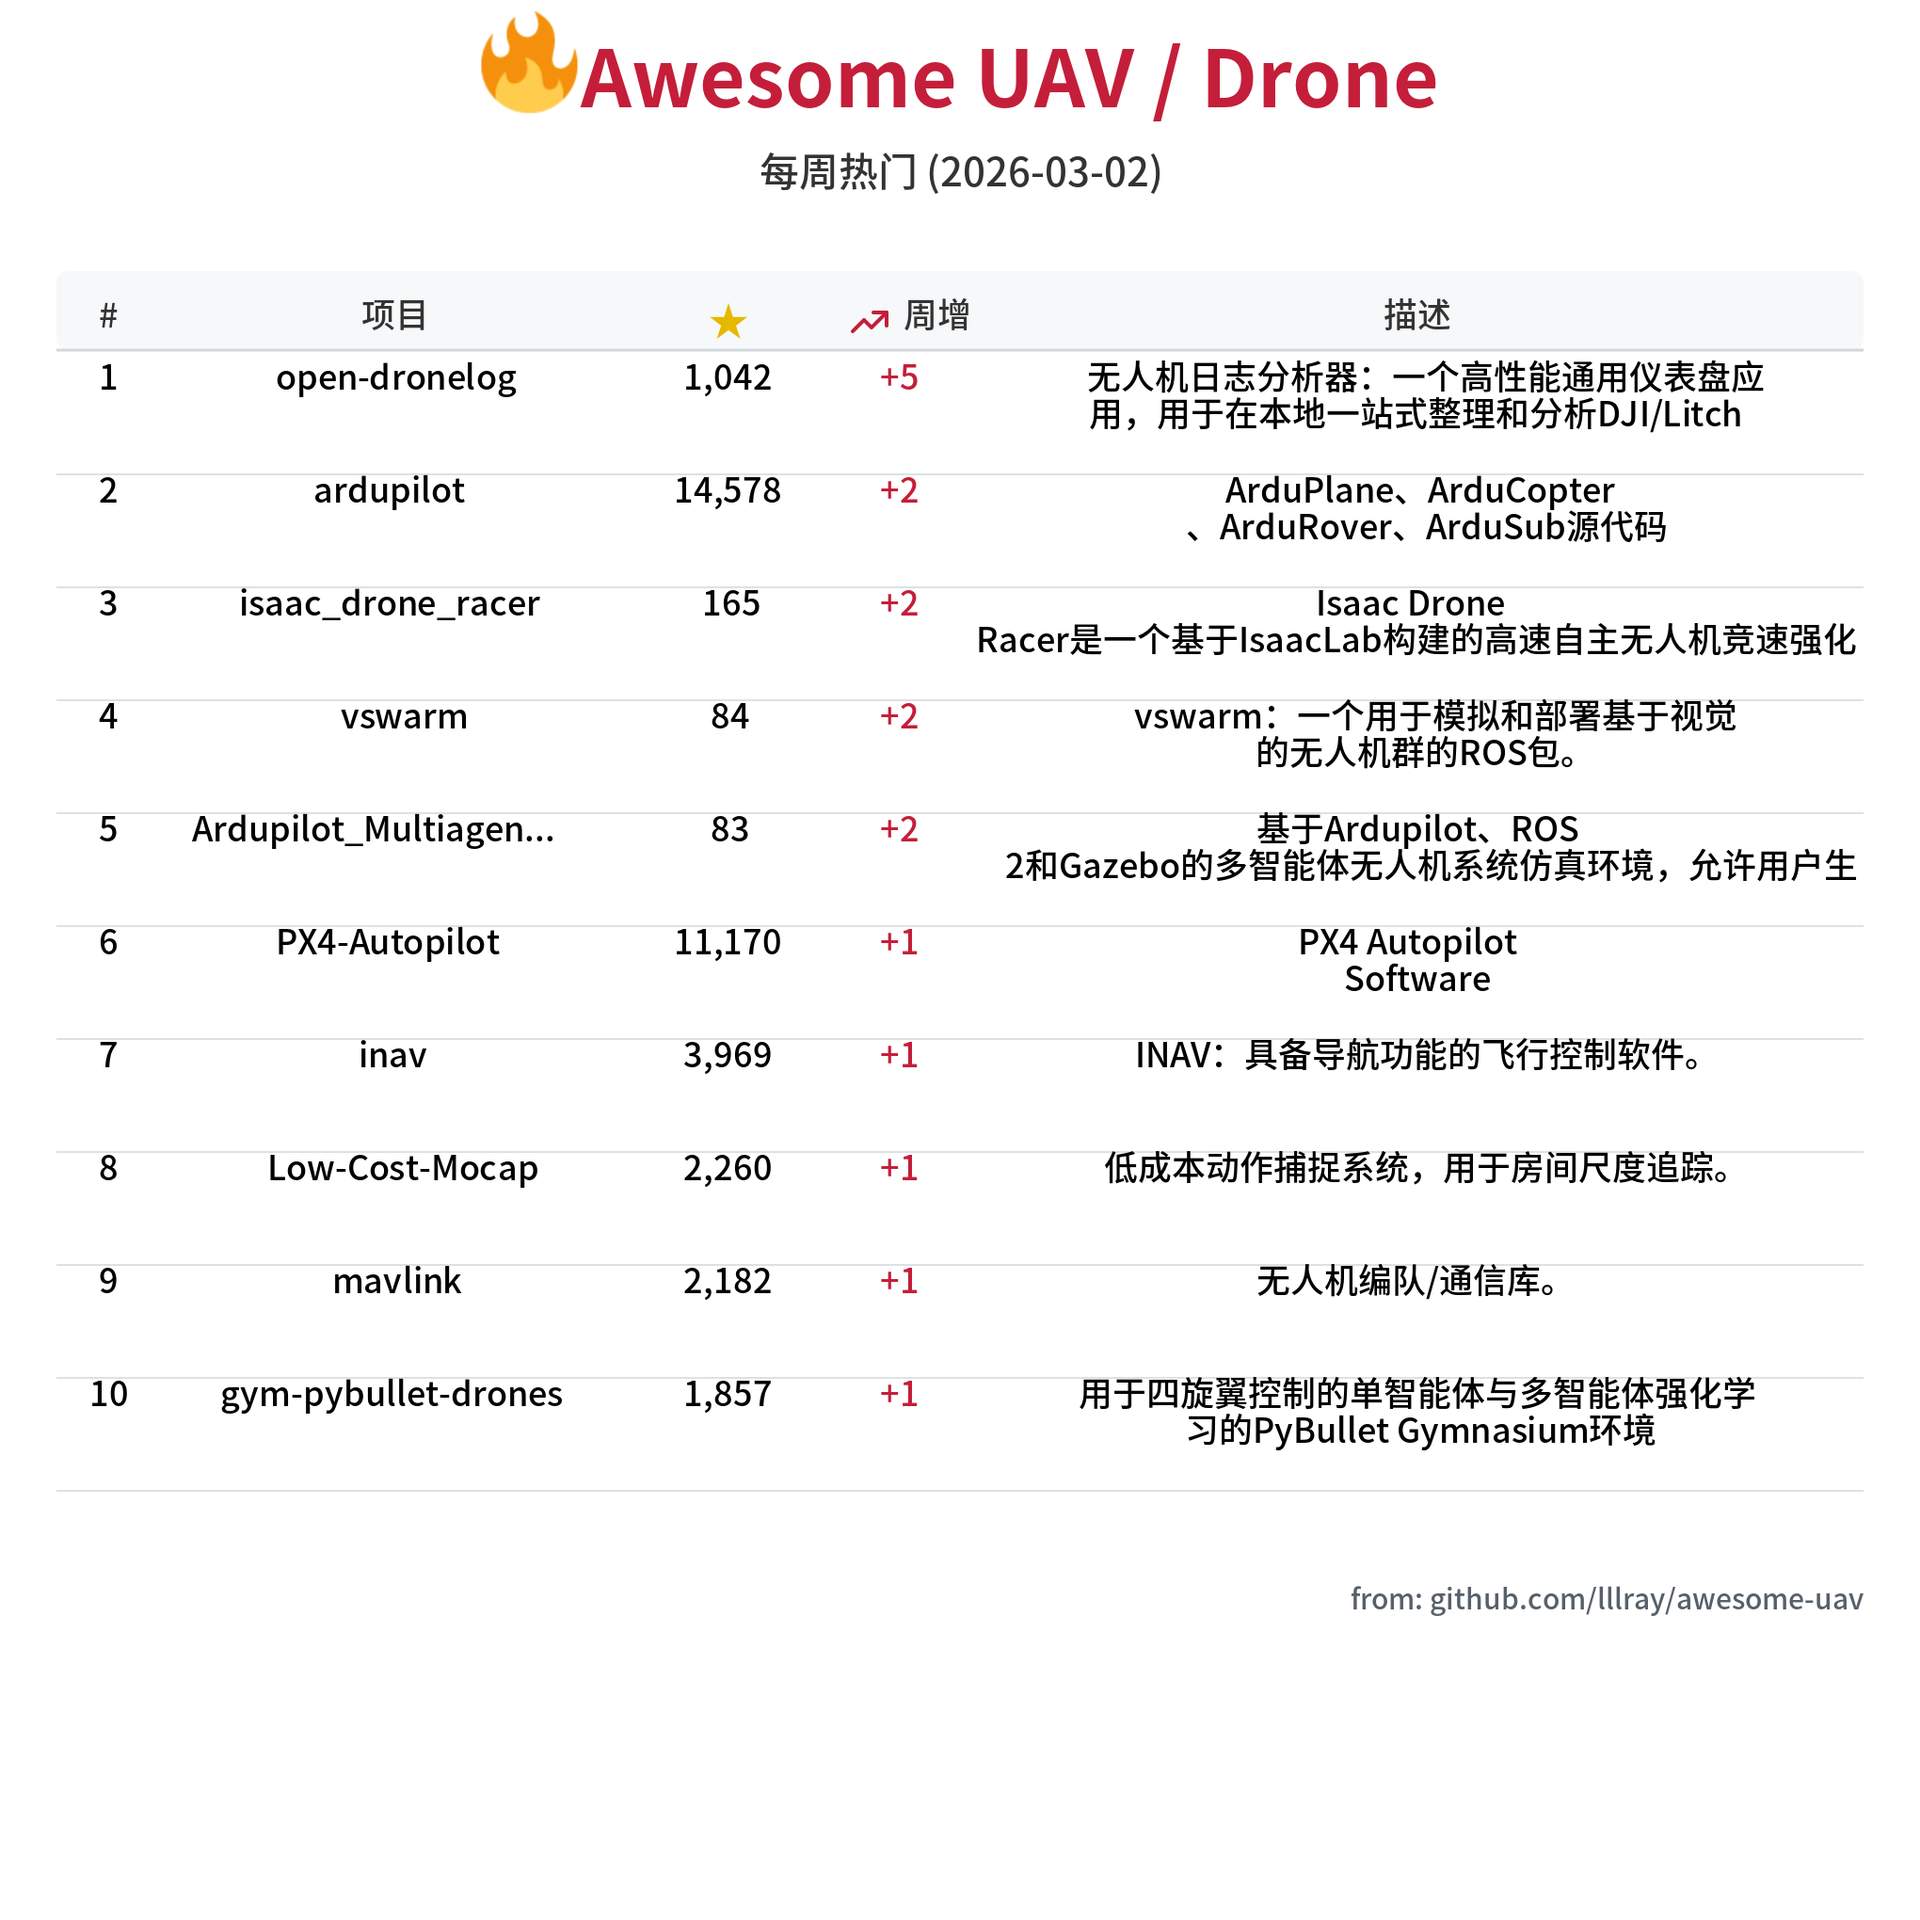
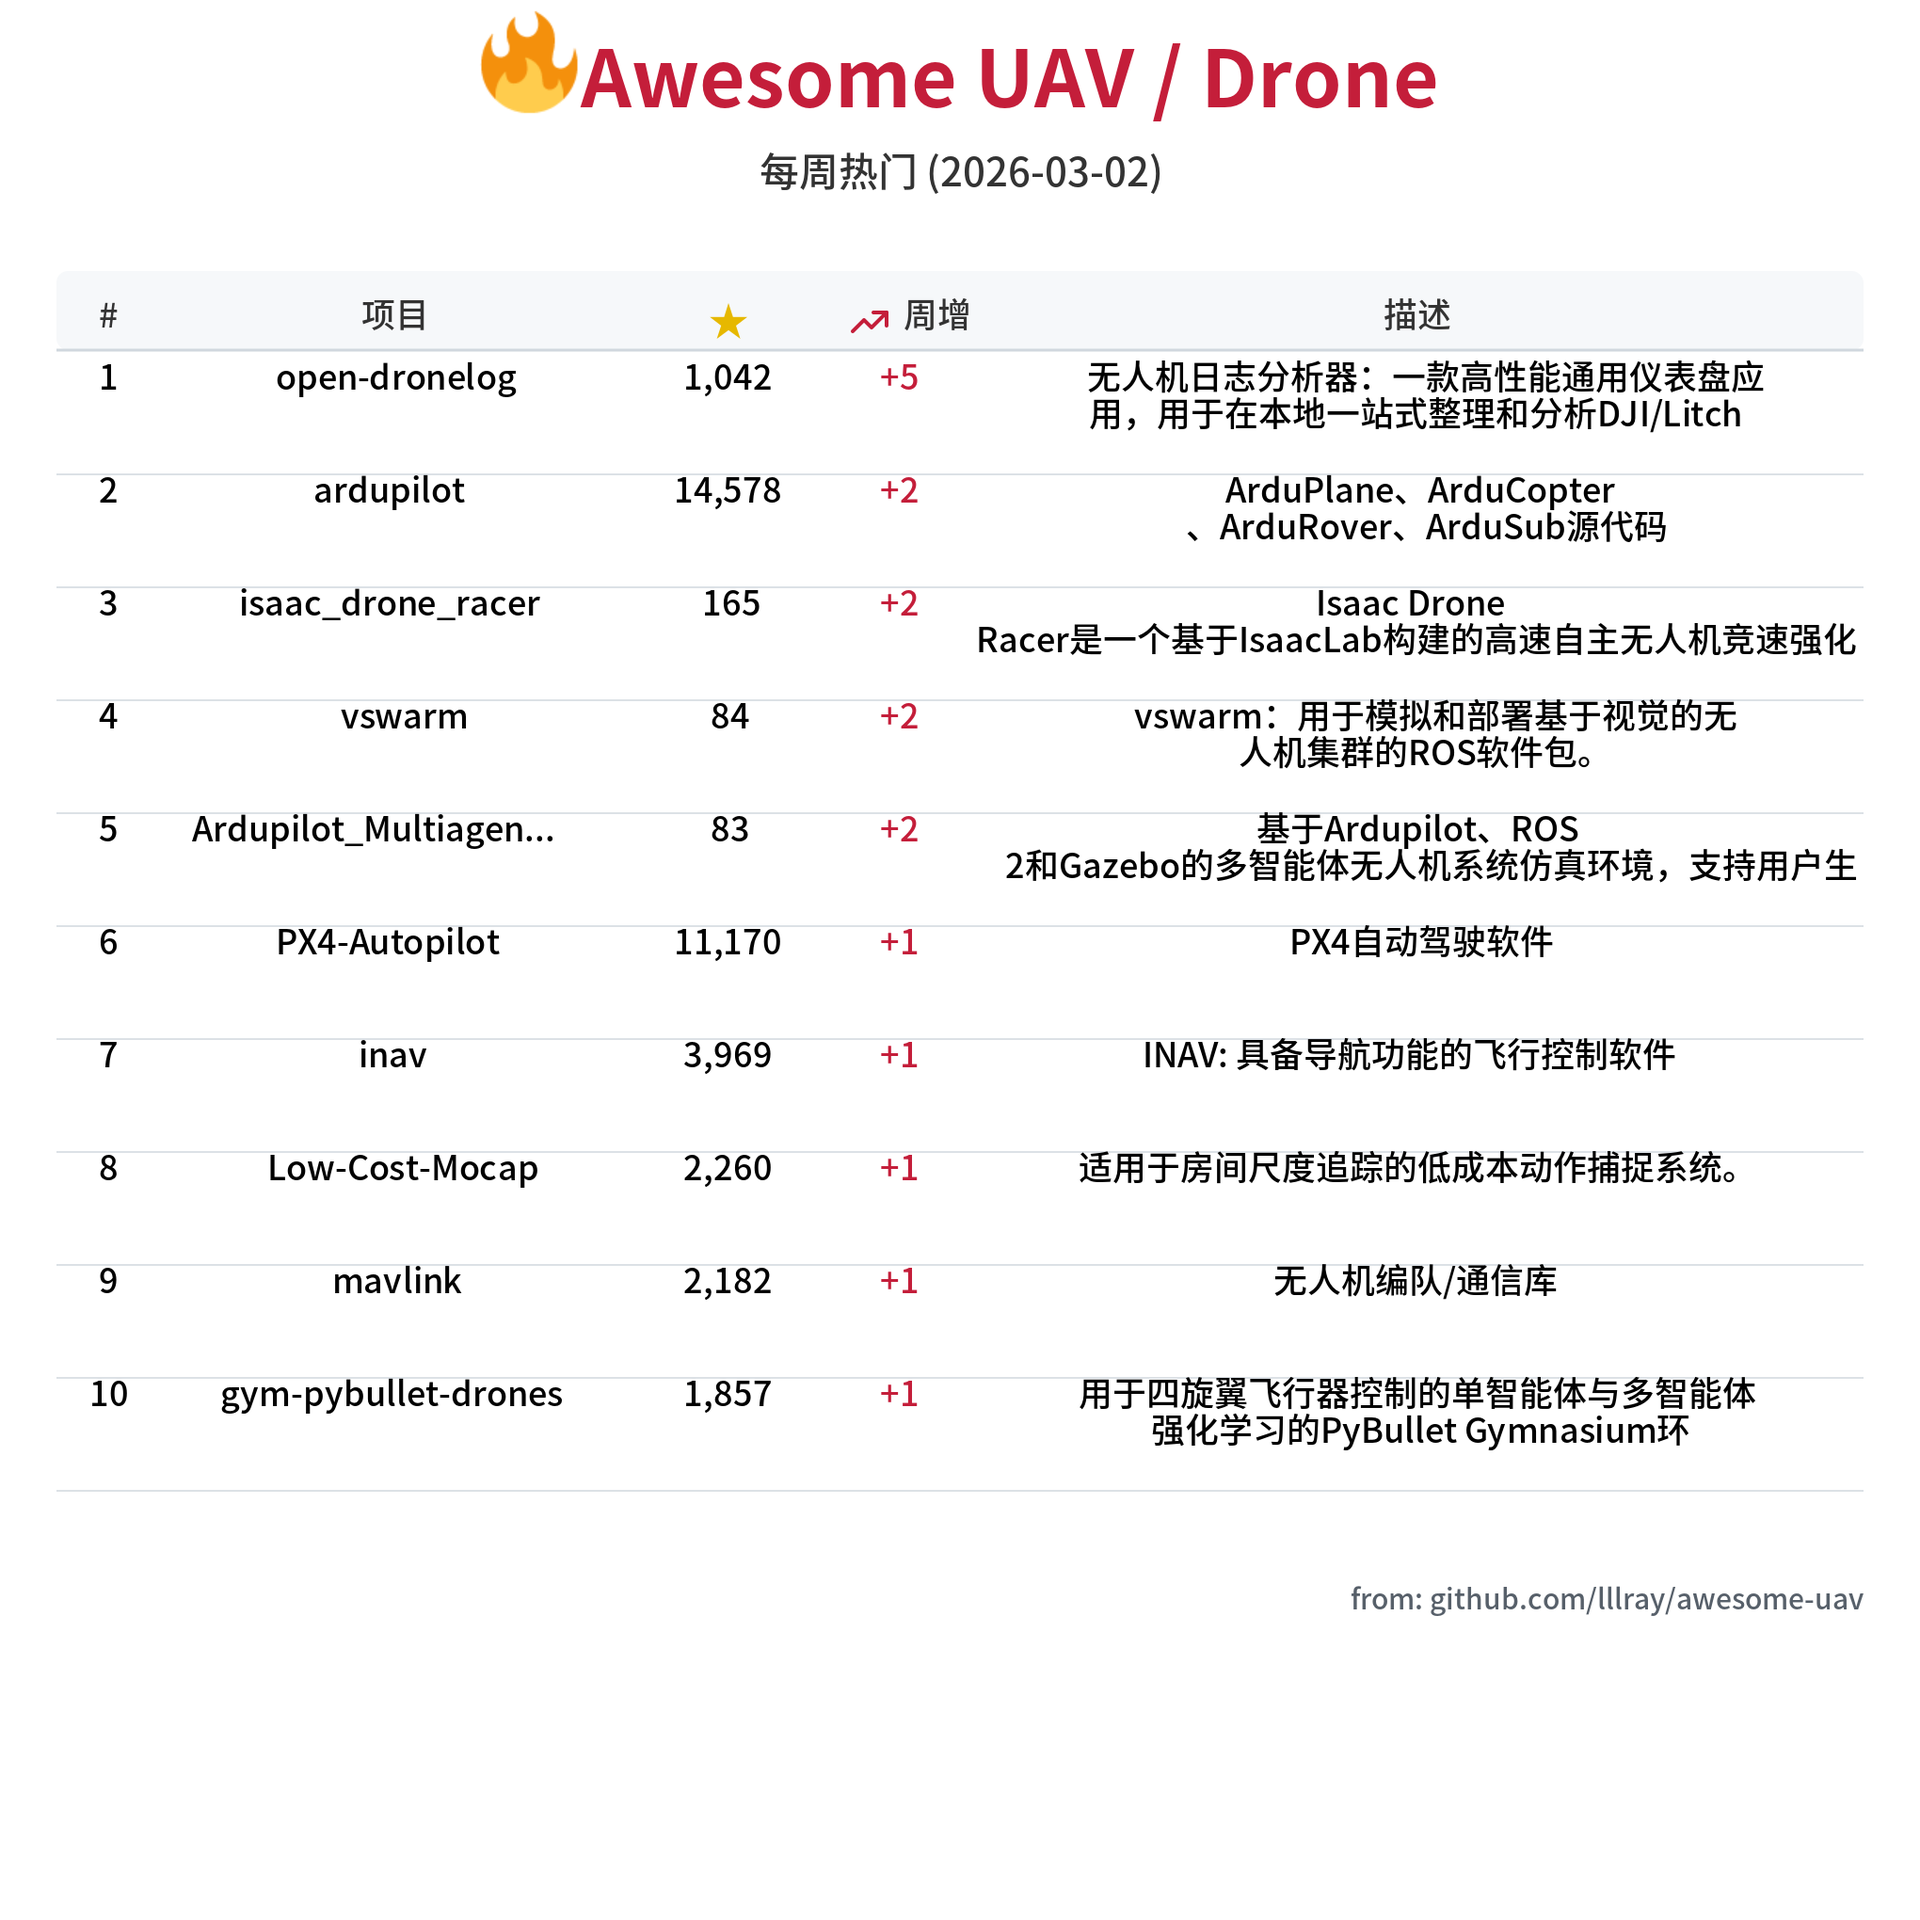
docs: 重新翻译每日热门描述 - 2026-03-02 20:57:07

diff --git a/README_ZH.md b/README_ZH.md
@@ -29,26 +29,26 @@
 
 | # | 项目 | ⭐ | 📈 周增 | 描述 |
 |:-:|------|---:|-------:|------|
-| 1 | [arpanghosh8453/open-dronelog](https://github.com/arpanghosh8453/open-dronelog) | 1,042 | +5 | 无人机日志分析器：一个高性能通用仪表盘应用，用于在本地一站式整理和分析DJI/Litchi飞行日志。... |
+| 1 | [arpanghosh8453/open-dronelog](https://github.com/arpanghosh8453/open-dronelog) | 1,042 | +5 | 无人机日志分析器：一款高性能通用仪表盘应用，用于在本地一站式整理和分析DJI/Litchi飞行日志。... |
 | 2 | [ArduPilot/ardupilot](https://github.com/ArduPilot/ardupilot) | 14,578 | +2 | ArduPlane、ArduCopter、ArduRover、ArduSub源代码 |
 | 3 | [kousheekc/isaac_drone_racer](https://github.com/kousheekc/isaac_drone_racer) | 165 | +2 | Isaac Drone Racer是一个基于IsaacLab构建的高速自主无人机竞速强化学习框架。 |
-| 4 | [lis-epfl/vswarm](https://github.com/lis-epfl/vswarm) | 84 | +2 | vswarm：一个用于模拟和部署基于视觉的无人机群的ROS包。 |
-| 5 | [aau-cns/Ardupilot_Multiagent_Simulation](https://github.com/aau-cns/Ardupilot_Multiagent_Simulation) | 83 | +2 | 基于Ardupilot、ROS 2和Gazebo的多智能体无人机系统仿真环境，允许用户生成和控制多架... |
-| 6 | [PX4/PX4-Autopilot](https://github.com/PX4/PX4-Autopilot) | 11,170 | +1 | PX4 Autopilot Software |
-| 7 | [iNavFlight/inav](https://github.com/iNavFlight/inav) | 3,969 | +1 | INAV：具备导航功能的飞行控制软件。 |
-| 8 | [jyjblrd/Low-Cost-Mocap](https://github.com/jyjblrd/Low-Cost-Mocap) | 2,260 | +1 | 低成本动作捕捉系统，用于房间尺度追踪。 |
-| 9 | [mavlink/mavlink](https://github.com/mavlink/mavlink) | 2,182 | +1 | 无人机编队/通信库。 |
-| 10 | [utiasDSL/gym-pybullet-drones](https://github.com/utiasDSL/gym-pybullet-drones) | 1,857 | +1 | 用于四旋翼控制的单智能体与多智能体强化学习的PyBullet Gymnasium环境 |
-| 11 | [mit-acl/faster](https://github.com/mit-acl/faster) | 1,196 | +1 | 未知环境中的3D轨迹规划器。 |
+| 4 | [lis-epfl/vswarm](https://github.com/lis-epfl/vswarm) | 84 | +2 | vswarm：用于模拟和部署基于视觉的无人机集群的ROS软件包。 |
+| 5 | [aau-cns/Ardupilot_Multiagent_Simulation](https://github.com/aau-cns/Ardupilot_Multiagent_Simulation) | 83 | +2 | 基于Ardupilot、ROS 2和Gazebo的多智能体无人机系统仿真环境，支持用户生成并控制多架... |
+| 6 | [PX4/PX4-Autopilot](https://github.com/PX4/PX4-Autopilot) | 11,170 | +1 | PX4自动驾驶软件 |
+| 7 | [iNavFlight/inav](https://github.com/iNavFlight/inav) | 3,969 | +1 | INAV: 具备导航功能的飞行控制软件 |
+| 8 | [jyjblrd/Low-Cost-Mocap](https://github.com/jyjblrd/Low-Cost-Mocap) | 2,260 | +1 | 适用于房间尺度追踪的低成本动作捕捉系统。 |
+| 9 | [mavlink/mavlink](https://github.com/mavlink/mavlink) | 2,182 | +1 | 无人机编队/通信库 |
+| 10 | [utiasDSL/gym-pybullet-drones](https://github.com/utiasDSL/gym-pybullet-drones) | 1,857 | +1 | 用于四旋翼飞行器控制的单智能体与多智能体强化学习的PyBullet Gymnasium环境 |
+| 11 | [mit-acl/faster](https://github.com/mit-acl/faster) | 1,196 | +1 | 未知环境中的3D轨迹规划器 |
 | 12 | [rtlopez/esp-fc](https://github.com/rtlopez/esp-fc) | 574 | +1 | 面向爱好者的飞行控制器软件——构建你自己的飞行控制器。 |
-| 13 | [mavlink-router/mavlink-router](https://github.com/mavlink-router/mavlink-router) | 567 | +1 | 在端点之间路由Mavlink数据包。 |
+| 13 | [mavlink-router/mavlink-router](https://github.com/mavlink-router/mavlink-router) | 567 | +1 | 在端点之间路由Mavlink数据包 |
 | 14 | [young-how/DQN-based-UAV-3D_path_planer](https://github.com/young-how/DQN-based-UAV-3D_path_planer) | 529 | +1 | RLGF是一个适用于无人机深度强化学习任务的通用训练框架，集成了多种主流深度强化学习算法（SAC、D... |
-| 15 | [OpenHUTB/hutb](https://github.com/OpenHUTB/hutb) | 441 | +1 | 人车模拟器。 |
-| 16 | [qqqlab/madflight](https://github.com/qqqlab/madflight) | 387 | +1 | ESP32 / Raspberry Pico / STM32 飞行控制器 |
-| 17 | [kitoweeknd/RFUAV](https://github.com/kitoweeknd/RFUAV) | 350 | +1 | 这是我们论文《RFUAV：无人机检测与识别基准数据集》的官方仓库。代码包含一个两阶段模型，使用FFT... |
-| 18 | [aerostack2/aerostack2](https://github.com/aerostack2/aerostack2) | 304 | +1 | Aerostack2是一个ROS 2框架，旨在以简单而强大的方式创建自主多空中机器人系统。 |
-| 19 | [KumarRobotics/kr_mav_control](https://github.com/KumarRobotics/kr_mav_control) | 147 | +1 | 四旋翼控制代码 |
-| 20 | [sergiovirahonda/cortex](https://github.com/sergiovirahonda/cortex) | 108 | +1 | 用于DIY四旋翼的ESP32-S3飞行控制器：实时PID稳定、DShot电调、nRF24无线电、遥测... |
+| 15 | [OpenHUTB/hutb](https://github.com/OpenHUTB/hutb) | 441 | +1 | 人车模拟器 |
+| 16 | [qqqlab/madflight](https://github.com/qqqlab/madflight) | 387 | +1 | 适用于ESP32 / Raspberry Pico / STM32的飞行控制器 |
+| 17 | [kitoweeknd/RFUAV](https://github.com/kitoweeknd/RFUAV) | 350 | +1 | 这是我们论文《RFUAV：无人机检测与识别基准数据集》的官方仓库。代码包含一个两阶段模型，采用FFT... |
+| 18 | [aerostack2/aerostack2](https://github.com/aerostack2/aerostack2) | 304 | +1 | Aerostack2是一个ROS 2框架，旨在以简单而强大的方式创建自主多飞行机器人系统。 |
+| 19 | [KumarRobotics/kr_mav_control](https://github.com/KumarRobotics/kr_mav_control) | 147 | +1 | 四旋翼飞行器控制代码 |
+| 20 | [sergiovirahonda/cortex](https://github.com/sergiovirahonda/cortex) | 108 | +1 | 用于DIY四轴飞行器的ESP32-S3飞行控制器：实时PID稳定、DShot电调、nRF24无线电、... |
 
 ---
 
@@ -270,4 +270,4 @@ git clone https://github.com/lllray/awesome-uav.git
 
 ---
 
-<p align="center"><sub>✨ 自动整理 · 2026-03-02 20:49:10</sub></p>
+<p align="center"><sub>✨ 自动整理 · 2026-03-02 20:57:07</sub></p>

diff --git a/README.md b/README.md
@@ -262,4 +262,4 @@ Pull requests welcome!
 
 ---
 
-<p align="center"><sub>✨ Auto-curated · 2026-03-02 20:49:10</sub></p>
+<p align="center"><sub>✨ Auto-curated · 2026-03-02 20:57:07</sub></p>
